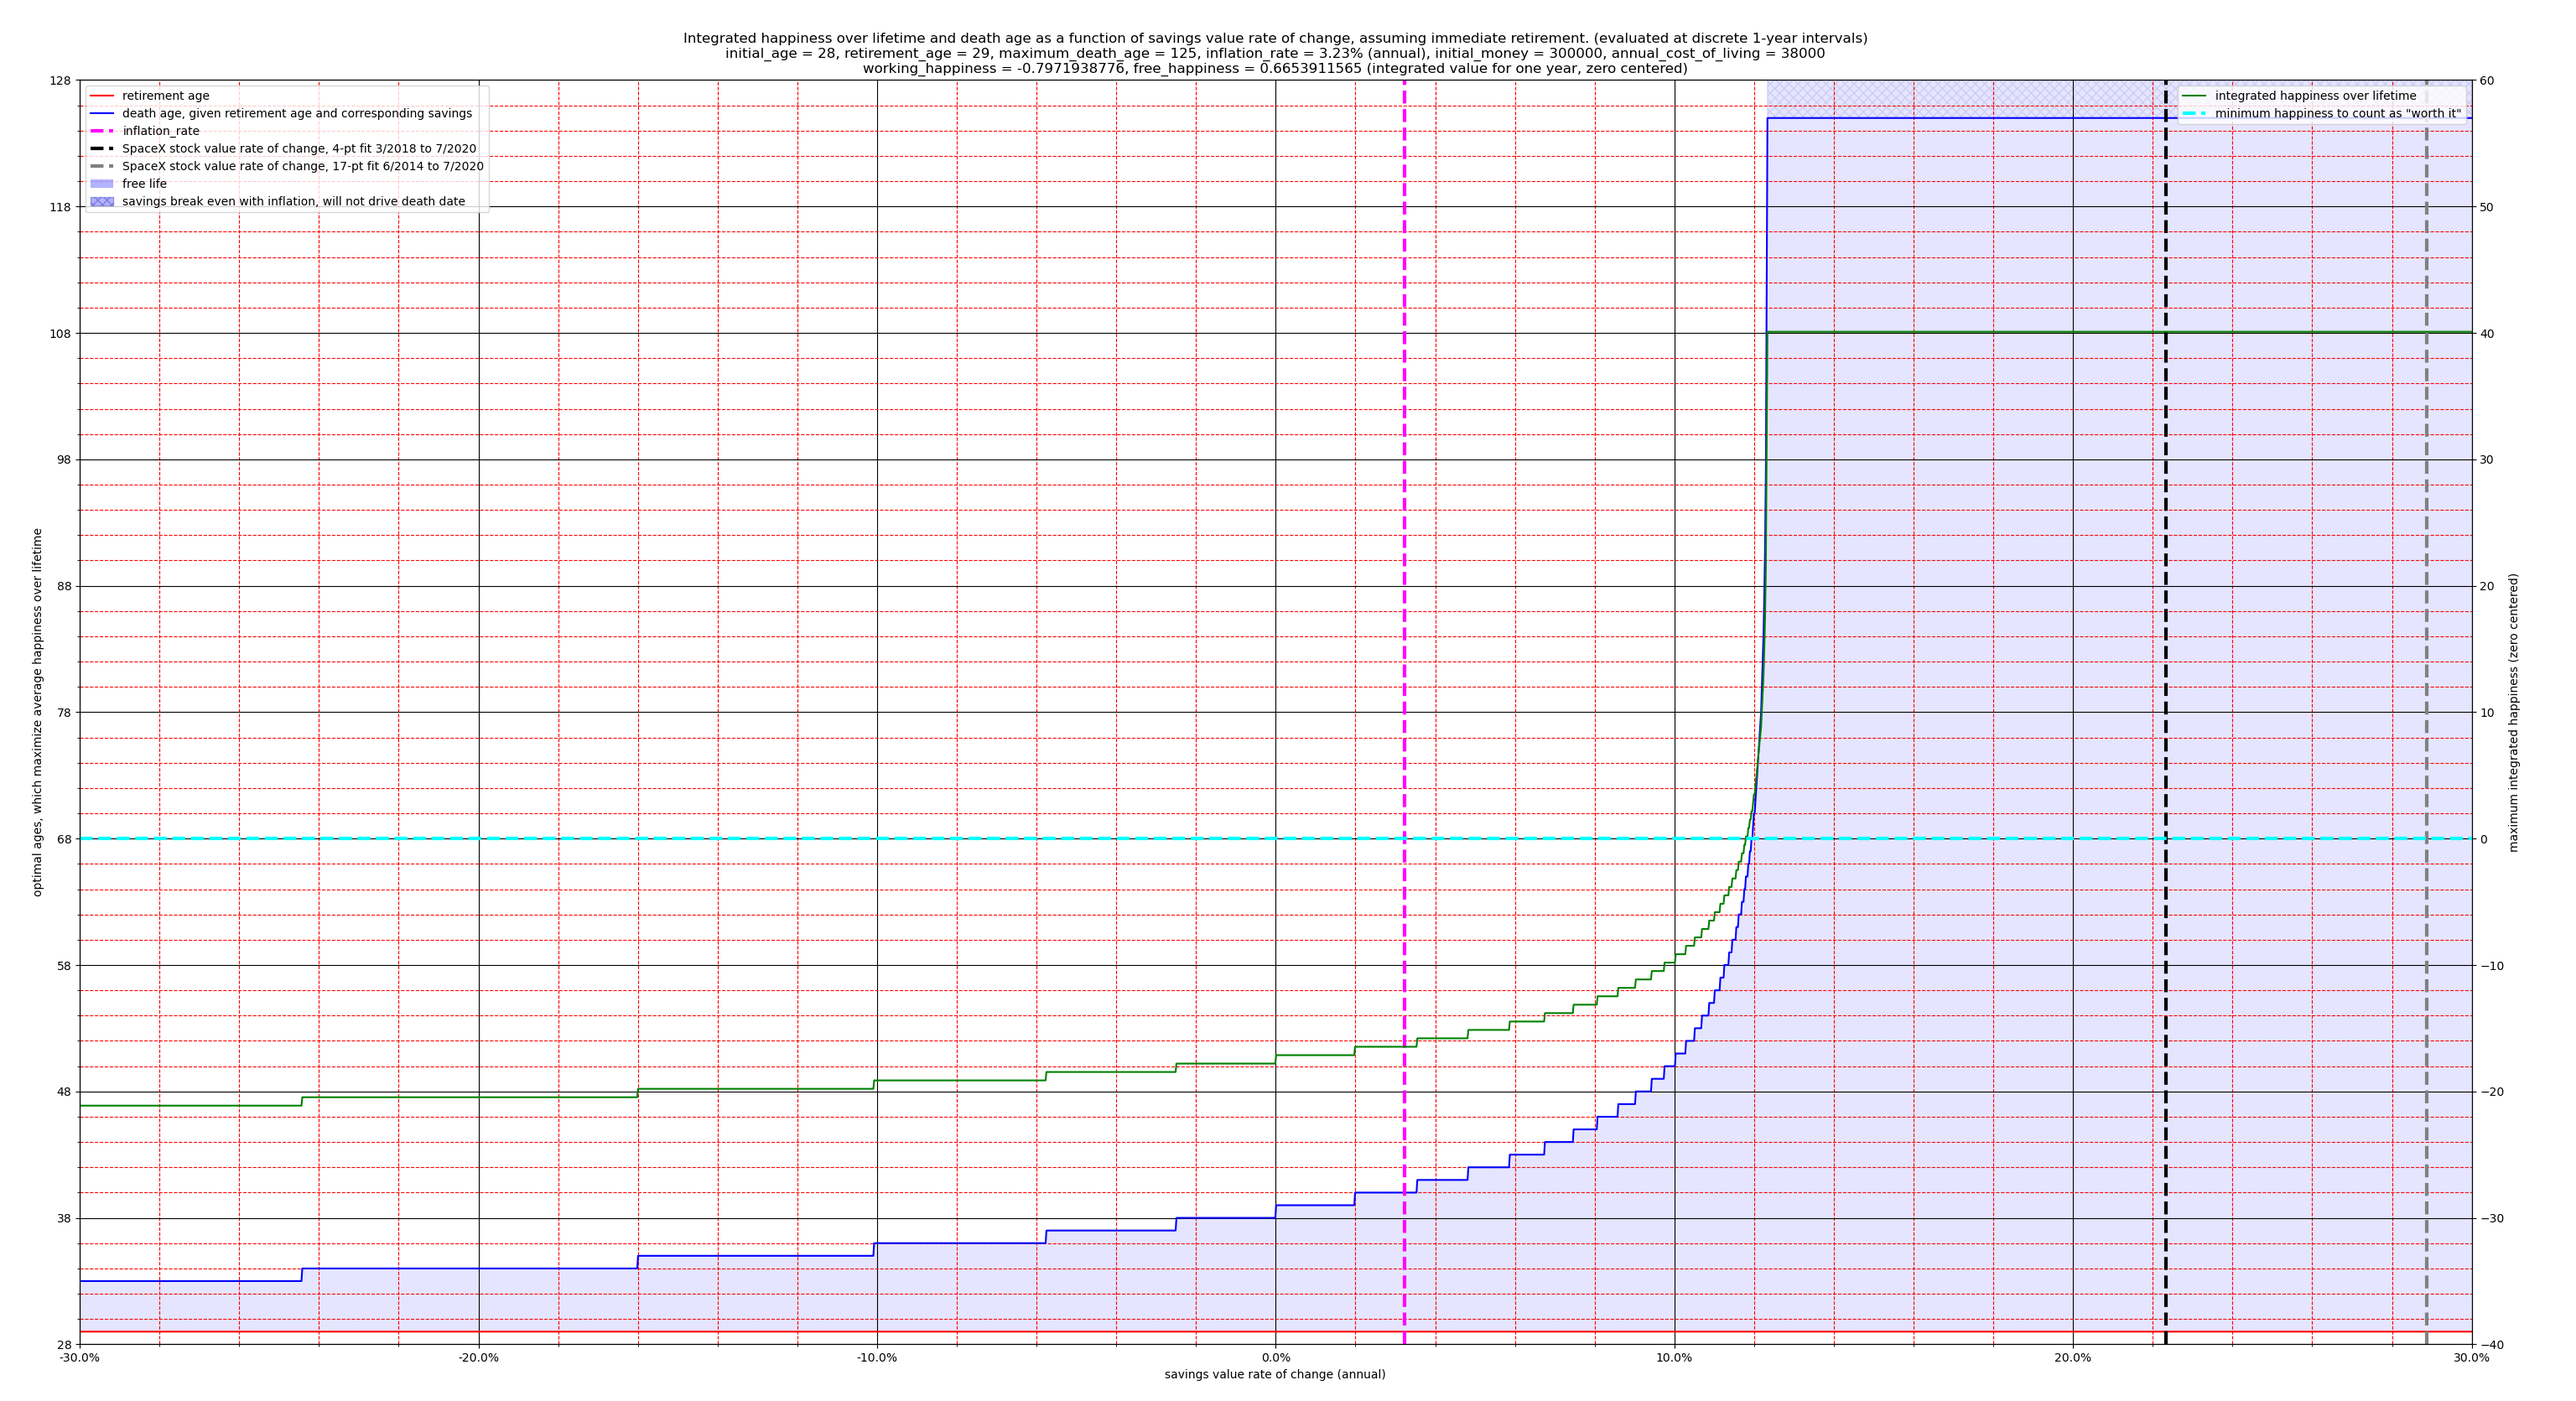
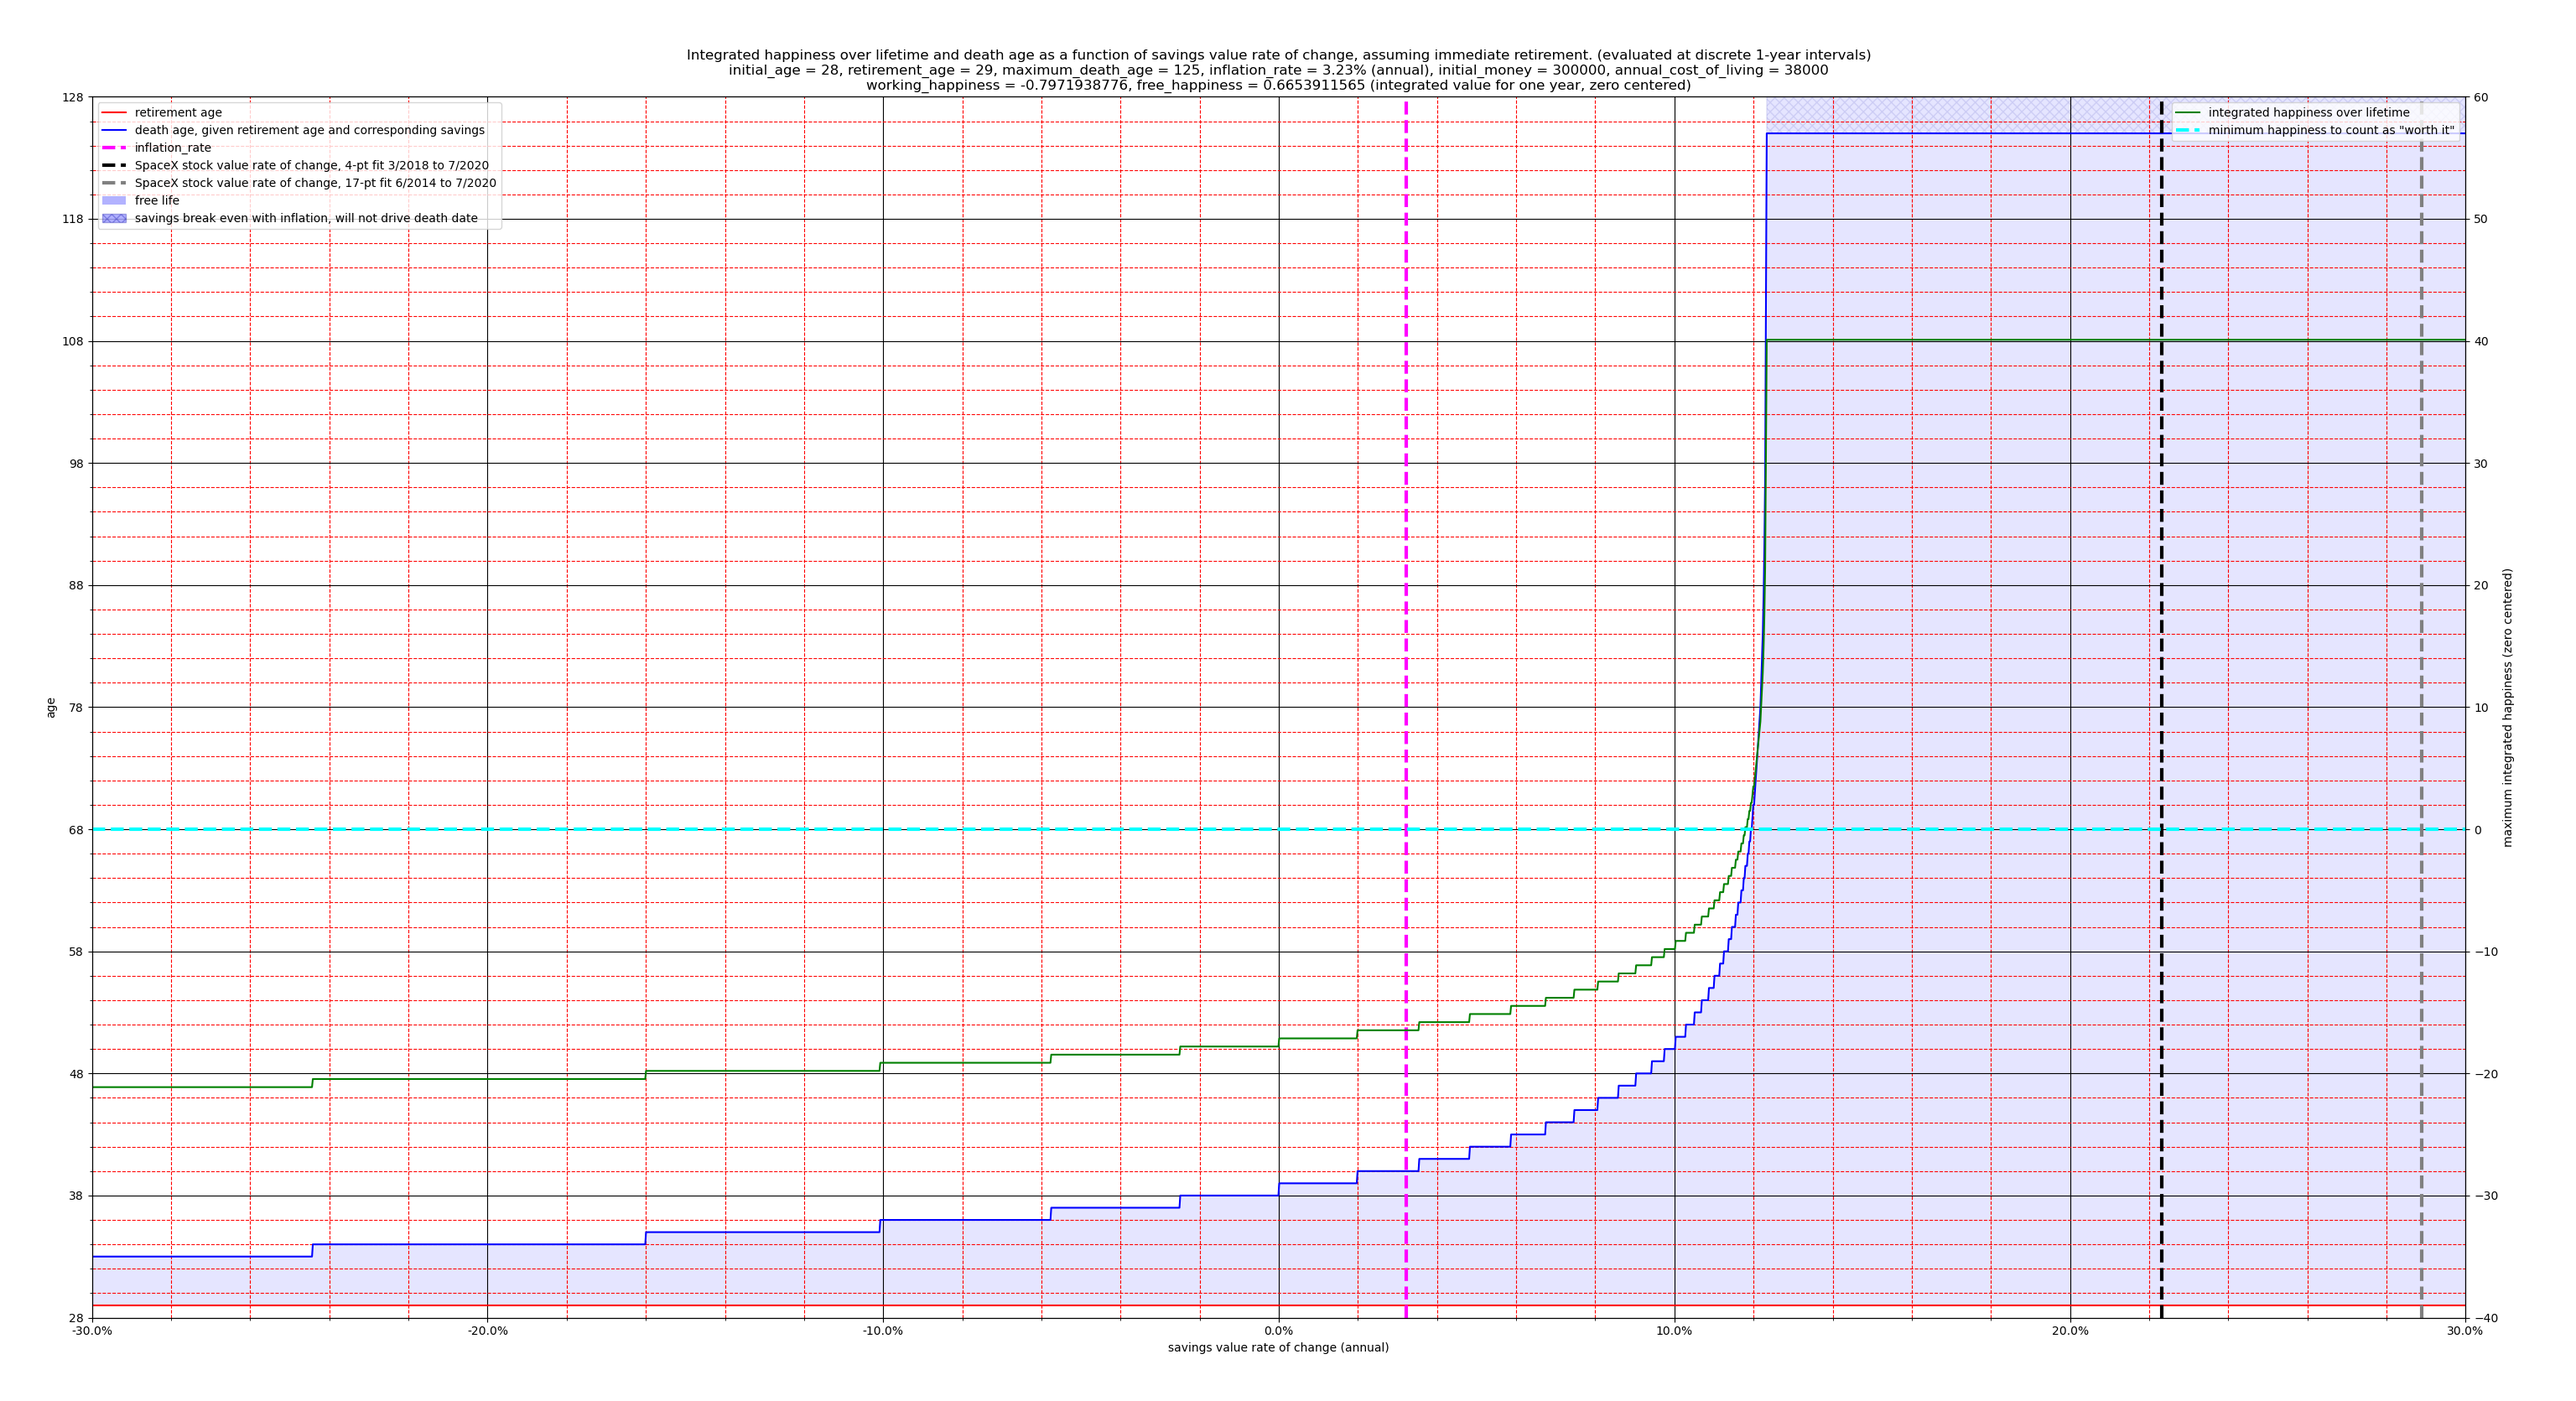
fixing typos in older graph labels

diff --git a/optimal_retirement_age_and_integrated_happiness_vs_interest_rate.py b/optimal_retirement_age_and_integrated_happiness_vs_interest_rate.py
@@ -126,7 +126,7 @@ if __name__ == '__main__':
     free_happiness = 0.6653911565
 
     # plot setup
-    descriptor = (f'Maximim average happiness over lifetime and optimal retirement age as a function of interest rate. (evaluated at discrete 1-year intervals)\n' +
+    descriptor = (f'Maximim integrated happiness over lifetime and optimal retirement age as a function of interest rate. (evaluated at discrete 1-year intervals)\n' +
                   f'initial_age = {initial_age}, maximum_death_age = {maximum_death_age+1}, inflation_rate = {(inflation_rate-1)*100:.3}% (annual), initial_money = {initial_money}, annual_gross_earn_rate = {annual_gross_earn_rate}, annual_cost_of_living = {annual_cost_of_living}\n' +
                   f'working_happiness = {working_happiness}, free_happiness = {free_happiness} (integrated value for one year, zero centered)')
 
@@ -134,7 +134,7 @@ if __name__ == '__main__':
     # plt.gca().xaxis.set_major_formatter(matplotlib.ticker.PercentFormatter(xmax=1.0))
     # 'working_happiness (scale out of 10)'
     plt.xlabel('interest rate (annual)')
-    plt.ylabel('optimal ages, which maximize average happiness over lifetime')
+    plt.ylabel('optimal ages, which maximize integrated happiness over lifetime')
     plt.title(descriptor)
     plt.minorticks_on()
     plt.grid(b=True, which='major', color='black', linestyle='-')
@@ -243,7 +243,7 @@ if __name__ == '__main__':
     plt.ylabel('maximum integrated happiness (zero centered)')
     plt.ylim(-20, 50)
 
-    plt.plot(data_interest_rate_meta['interest_rate'], data_interest_rate_meta['max_happiness'], c='green', marker=None, label=f'average happiness over lifetime')
+    plt.plot(data_interest_rate_meta['interest_rate'], data_interest_rate_meta['max_happiness'], c='green', marker=None, label=f'integrated happiness over lifetime')
     plt.plot(plt.gca().get_xbound(), [0.0, 0.0], c='cyan', linestyle='--', label=f'minimum happiness to count as "worth it"')
 
     plt.gca().set_yticks(np.linspace(*plt.gca().get_ybound(), 11))

diff --git a/integrated_happiness_over_remaining_lifetime.py b/integrated_happiness_over_remaining_lifetime.py
@@ -196,7 +196,7 @@ if __name__ == '__main__':
             # data['average_happiness'].append((float(retirement_age)*-0.7971938776 + run_data['num_years_after_retirement'][-1]*0.6653911565))
             data['average_happiness'].append((float(retirement_age - initial_age)*-0.7971938776 + run_data['num_years_after_retirement'][-1]*0.6653911565))
 
-        plt.plot(data['retirement_age'], data['average_happiness'], c=colors[i_plot%len(colors)], marker='x', markersize=2, label=f'average happiness, at interest_rate = {(interest_rate - 1.0) * 100 :.3}%')
+        plt.plot(data['retirement_age'], data['average_happiness'], c=colors[i_plot%len(colors)], marker='x', markersize=2, label=f'integrated happiness, at interest_rate = {(interest_rate - 1.0) * 100 :.3}%')
 
     handles, labels = plt.gca().get_legend_handles_labels()
     # plt.legend(loc=1, handles = region_patches + handles)

diff --git a/integrated_happiness_over_lifetime_and_death_age_as_a_function_of_savings_value_rate_of_change,_assuming_immediate_retirement.py b/integrated_happiness_over_lifetime_and_death_age_as_a_function_of_savings_value_rate_of_change,_assuming_immediate_retirement.py
@@ -136,7 +136,7 @@ if __name__ == '__main__':
     # plt.gca().xaxis.set_major_formatter(matplotlib.ticker.PercentFormatter(xmax=1.0))
     # 'working_happiness (scale out of 10)'
     plt.xlabel('savings value rate of change (annual)')
-    plt.ylabel('optimal ages, which maximize average happiness over lifetime')
+    plt.ylabel('age')
     plt.title(descriptor)
     plt.minorticks_on()
     plt.grid(b=True, which='major', color='black', linestyle='-')
